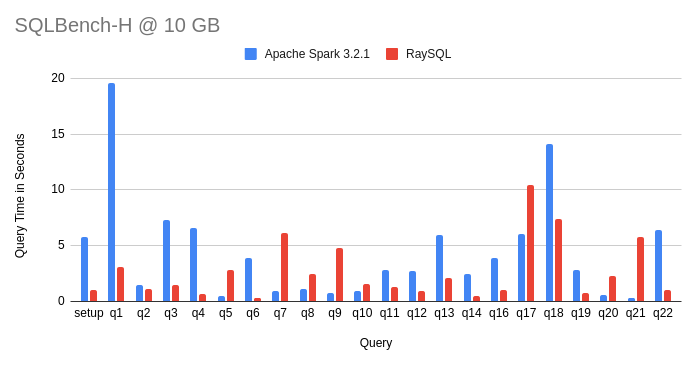
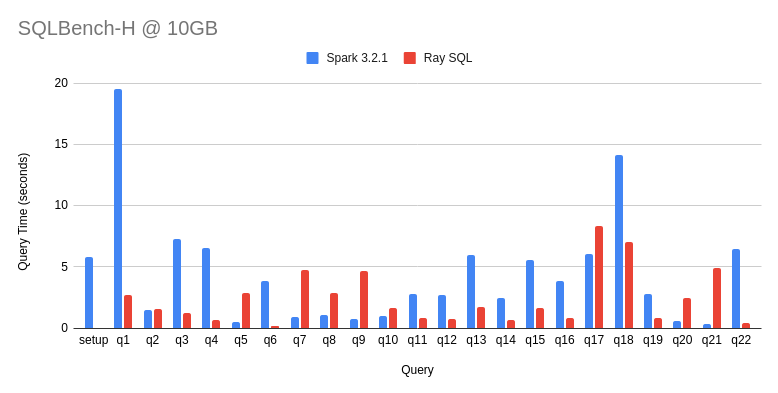
Add support for DDL statements, such as `CREATE VIEW` (#35)
* Experimenting with supporting DDL

* update docs

diff --git a/src/context.rs b/src/context.rs
@@ -75,6 +75,15 @@ impl PyContext {
         Ok(())
     }
 
+    /// Execute SQL directly against the DataFusion context. Useful for statements
+    /// such as "create view" or "drop view"
+    pub fn sql(&self, sql: &str, py: Python) -> PyResult<()> {
+        println!("Executing {}", sql);
+        let _df = wait_for_future(py, self.ctx.sql(sql))?;
+        Ok(())
+    }
+
+    /// Plan a distributed SELECT query for executing against the Ray workers
     pub fn plan(&self, sql: &str, py: Python) -> PyResult<PyExecutionGraph> {
         println!("Planning {}", sql);
         let df = wait_for_future(py, self.ctx.sql(sql))?;
@@ -197,7 +206,7 @@ fn _execute_partition(
         HashMap::new(),
         HashMap::new(),
         Arc::new(RuntimeEnv::default()),
-        Extensions::default()
+        Extensions::default(),
     )?);
     Python::with_gil(|py| {
         _set_inputs_for_ray_shuffle_reader(plan.plan.clone(), part, &inputs, py)
@@ -229,6 +238,14 @@ impl PyResultSet {
     fn new(batches: Vec<PyRecordBatch>) -> Self {
         Self { batches }
     }
+    fn empty() -> Self {
+        Self { batches: vec![] }
+    }
+}
+
+#[pyfunction]
+pub fn empty_result_set() -> PyResultSet {
+    PyResultSet::empty()
 }
 
 fn _read_pybytes(pyobj: &PyAny, batches: &mut Vec<PyRecordBatch>) -> PyResult<()> {

diff --git a/src/lib.rs b/src/lib.rs
@@ -3,7 +3,9 @@ extern crate core;
 use pyo3::prelude::*;
 
 mod proto;
-use crate::context::{deserialize_execution_plan, execute_partition, serialize_execution_plan};
+use crate::context::{
+    deserialize_execution_plan, empty_result_set, execute_partition, serialize_execution_plan,
+};
 pub use proto::generated::protobuf;
 
 pub mod context;
@@ -22,5 +24,6 @@ fn _raysql_internal(_py: Python, m: &PyModule) -> PyResult<()> {
     m.add_function(wrap_pyfunction!(execute_partition, m)?)?;
     m.add_function(wrap_pyfunction!(serialize_execution_plan, m)?)?;
     m.add_function(wrap_pyfunction!(deserialize_execution_plan, m)?)?;
+    m.add_function(wrap_pyfunction!(empty_result_set, m)?)?;
     Ok(())
 }

diff --git a/raysql/context.py b/raysql/context.py
@@ -125,6 +125,12 @@ class RaySqlContext:
         self.ctx.register_parquet(table_name, path)
 
     def sql(self, sql: str) -> ResultSet:
+        # TODO we should parse sql and inspect the plan rather than
+        # perform a string comparison here
+        if 'create view' in sql or 'drop view' in sql:
+            self.ctx.sql(sql)
+            return raysql.empty_result_set()
+
         graph = self.ctx.plan(sql)
         final_stage_id = graph.get_final_query_stage().id()
 

diff --git a/raysql/__init__.py b/raysql/__init__.py
@@ -10,6 +10,7 @@ from ._raysql_internal import (
     execute_partition,
     serialize_execution_plan,
     deserialize_execution_plan,
+    empty_result_set
 )
 from .context import RaySqlContext
 

diff --git a/README.md b/README.md
@@ -42,7 +42,7 @@ print(result_set)
 
 ## Status
 
-- RaySQL can run 21 of the 22 TPC-H benchmark queries (query 15 needs DDL and that is not yet supported).
+- RaySQL can run all queries in the TPC-H benchmark
 
 ## Features
 
@@ -56,14 +56,12 @@ print(result_set)
 ## Performance
 
 This chart shows the performance of RaySQL compared to Apache Spark for
-[SQLBench-H](https://sqlbenchmarks.io/sqlbench-h/) at a very small data set (10GB), running on my desktop (Threadripper
+[SQLBench-H](https://sqlbenchmarks.io/sqlbench-h/) at a very small data set (10GB), running on a desktop (Threadripper
 with 24 physical cores). Both RaySQL and Spark are configured with 24 executors.
-
-Note that query 15 is excluded from both results since RaySQL does not support DDL yet.
 
 ### Overall Time
 
-RaySQL is ~65% faster overall for this scale factor and environment.
+RaySQL is ~1.9x faster overall for this scale factor and environment with disk-based shuffle.
 
 ![SQLBench-H Total](./docs/sqlbench-h-total.png)
 
